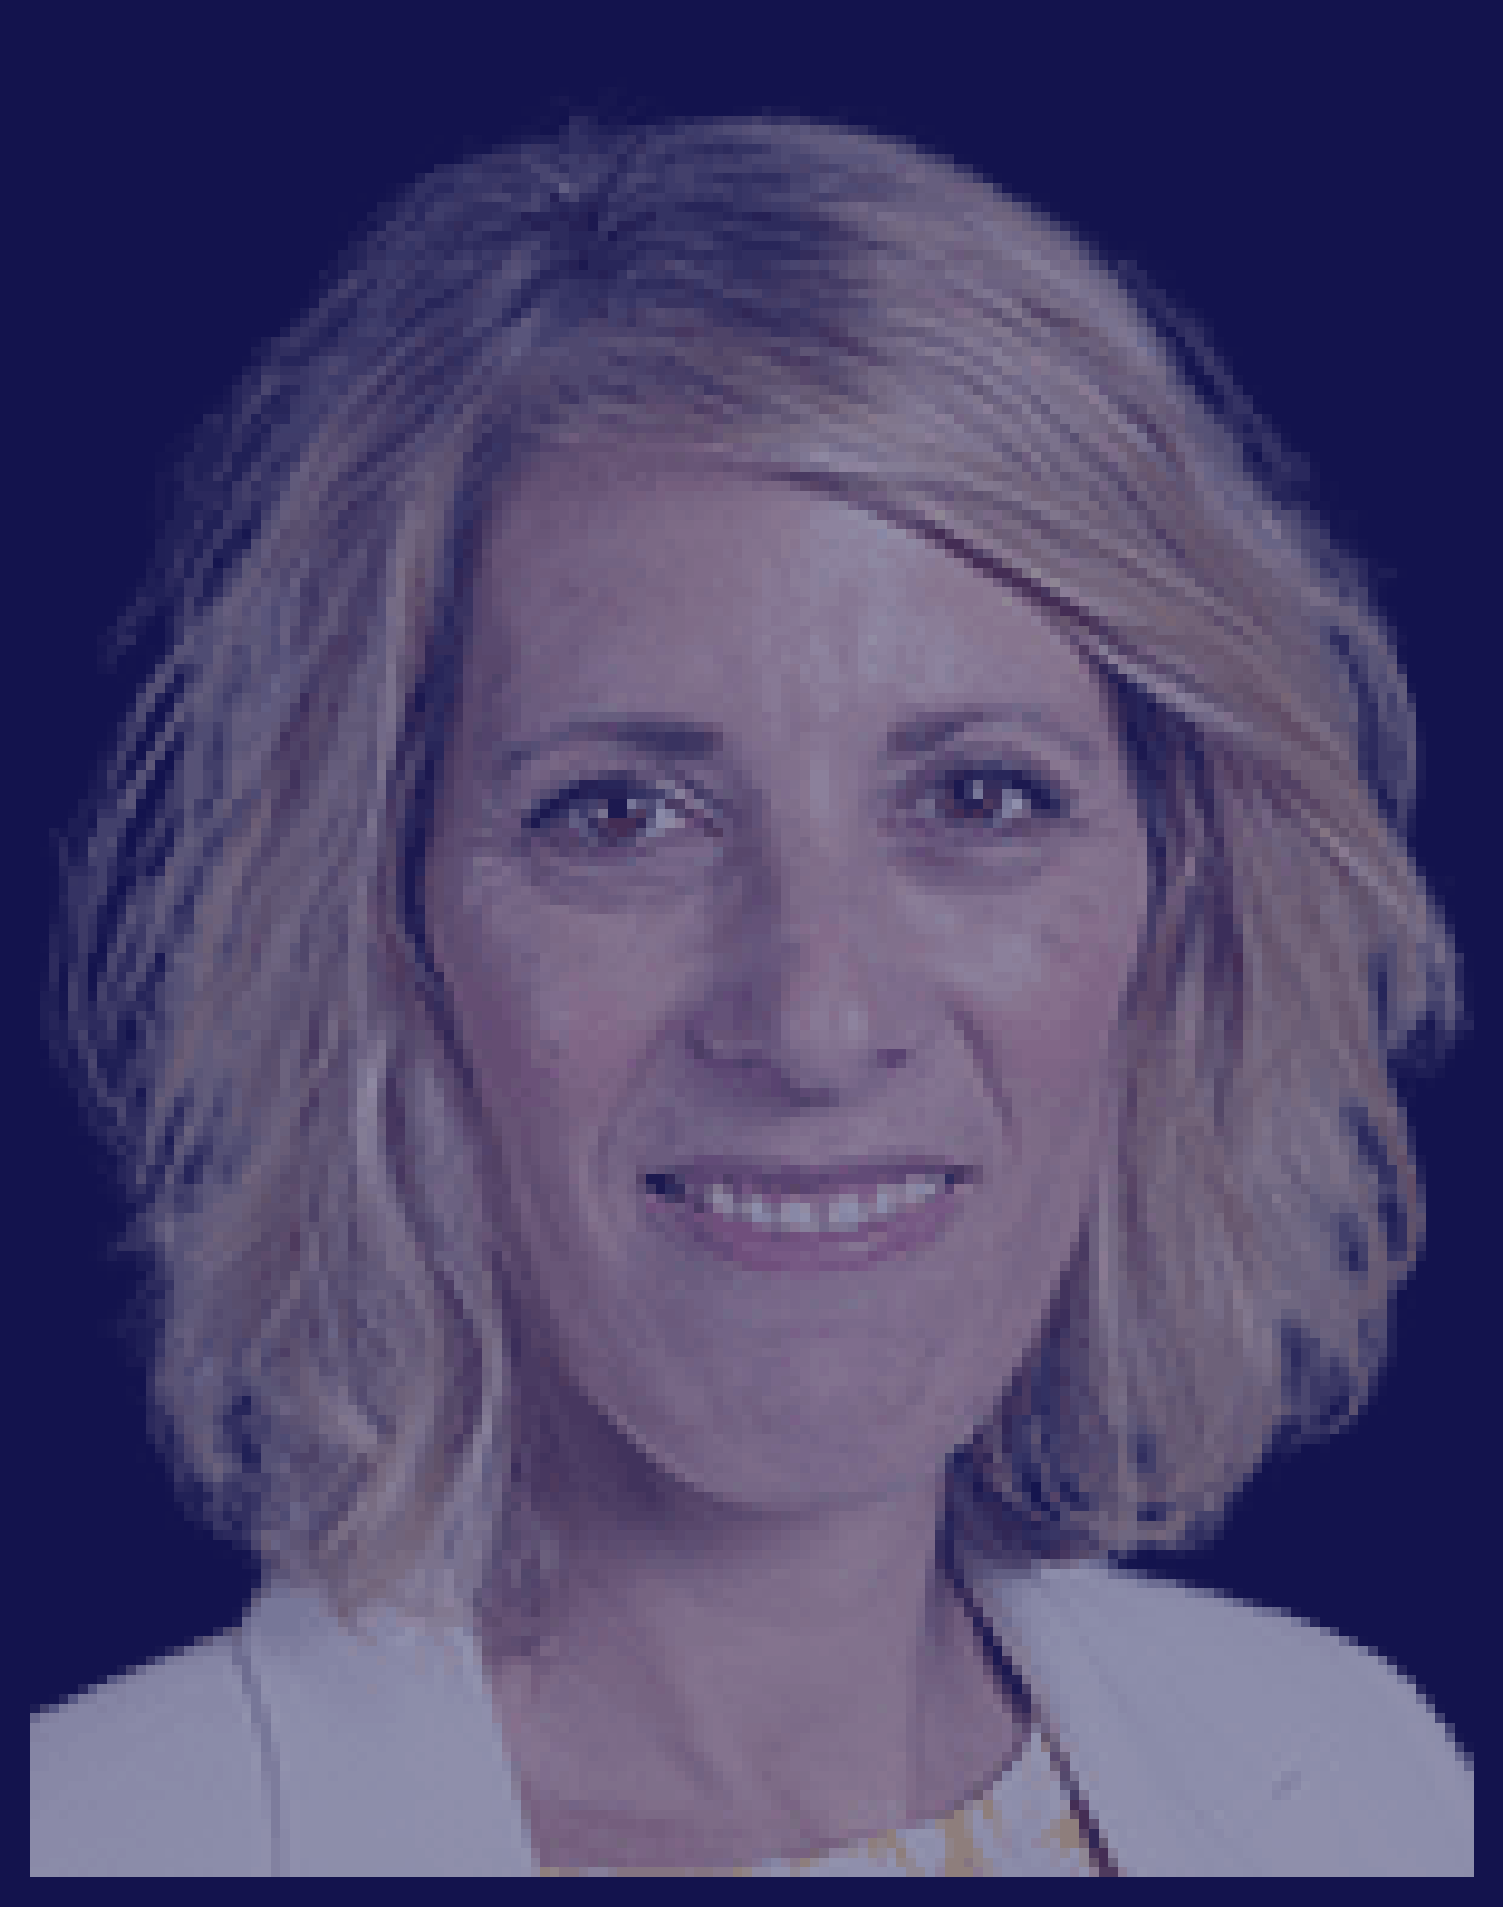
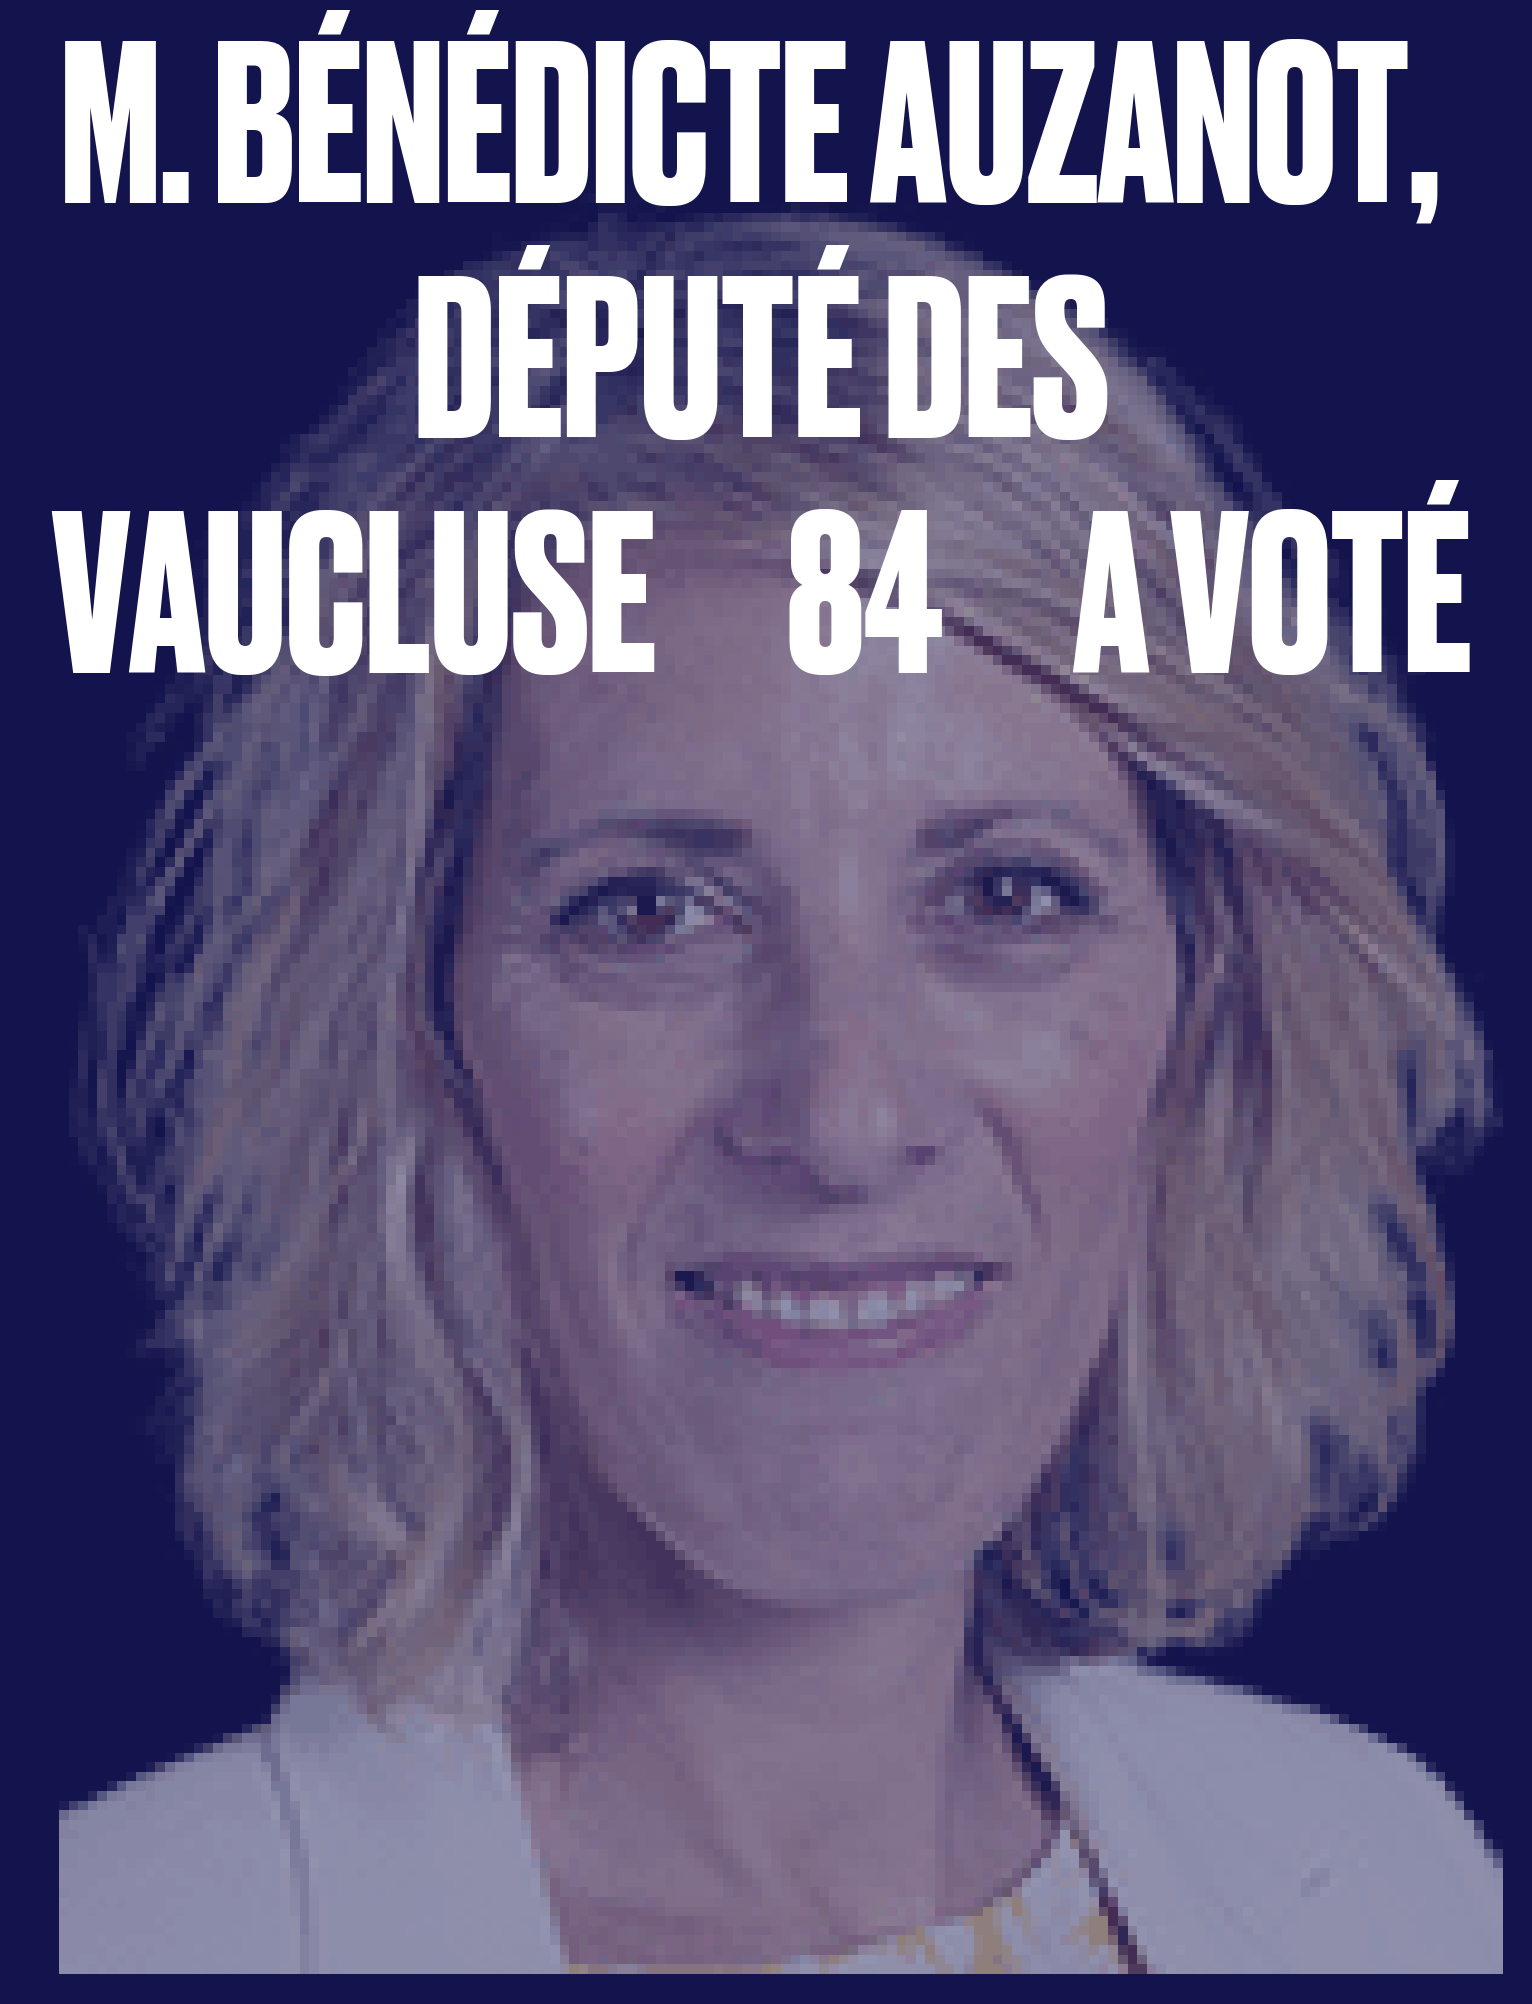
Add title to the posters

diff --git a/poster_deputees_RN.py b/poster_deputees_RN.py
@@ -1,15 +1,22 @@
+# -*- coding: utf-8 -*-
+
 import os
 import pandas as pd
 import matplotlib.pyplot as plt
 from PIL import Image
 import numpy as np
+from matplotlib import font_manager
 
 # Read the CSV file into a pandas DataFrame
 df = pd.read_csv("output/RN_deputees_information.csv")
 
 # Get the list of deputy IDs
 deputy_ids = df["Deputy ID"].tolist()
-first_2_deputees = deputy_ids[:2]
+deputy_names = df["Name"].tolist()
+deputy_constituency = df["Constituency"].tolist()
+first_2_deputy_ids = deputy_ids[:2]
+first_2_deputy_names = deputy_names[:2]
+first_2_deputy_const = deputy_constituency[:2]
 
 # Set the background color (RGB values)
 background_color = np.array([0.075, 0.075, 0.3])  # Dark blue
@@ -18,8 +25,13 @@ background_color = np.array([0.075, 0.075, 0.3])  # Dark blue
 fig_width = 8
 fig_height = 8
 
+big_title = "Mon député RN,\n cette année c'était...".upper()
+# font_props = {'family': 'monospace', 'style': 'italic', 'weight': 'bold'}
+# Load the "Trial Bold" font
+trial_bold_font = font_manager.FontProperties(fname="fonts/Font-Trial-Bold.otf")
+
 # Iterate over the deputy IDs
-for deputy_id in first_2_deputees:
+for deputy_id, deputy_name, deputy_const in zip(first_2_deputy_ids, first_2_deputy_names, first_2_deputy_const):
     # Load the image
     image_path = os.path.join("output/RN_deputees_img", f"{deputy_id}.png")
     image = Image.open(image_path).convert("RGBA")
@@ -40,6 +52,10 @@ for deputy_id in first_2_deputees:
 
     # Create a new figure
     fig, ax = plt.subplots(figsize=(fig_width, fig_height), facecolor=background_color)
+
+    # Add the big title
+    big_title_André = f"M. {deputy_name},\n député des\n {deputy_const} a voté:".upper()
+    fig.suptitle(big_title_André, fontsize=52, fontweight='bold', color='white', fontproperties=trial_bold_font, y=0.92)
 
     # Plot the image
     ax.imshow(image_array.astype(np.uint8),alpha=.55)
